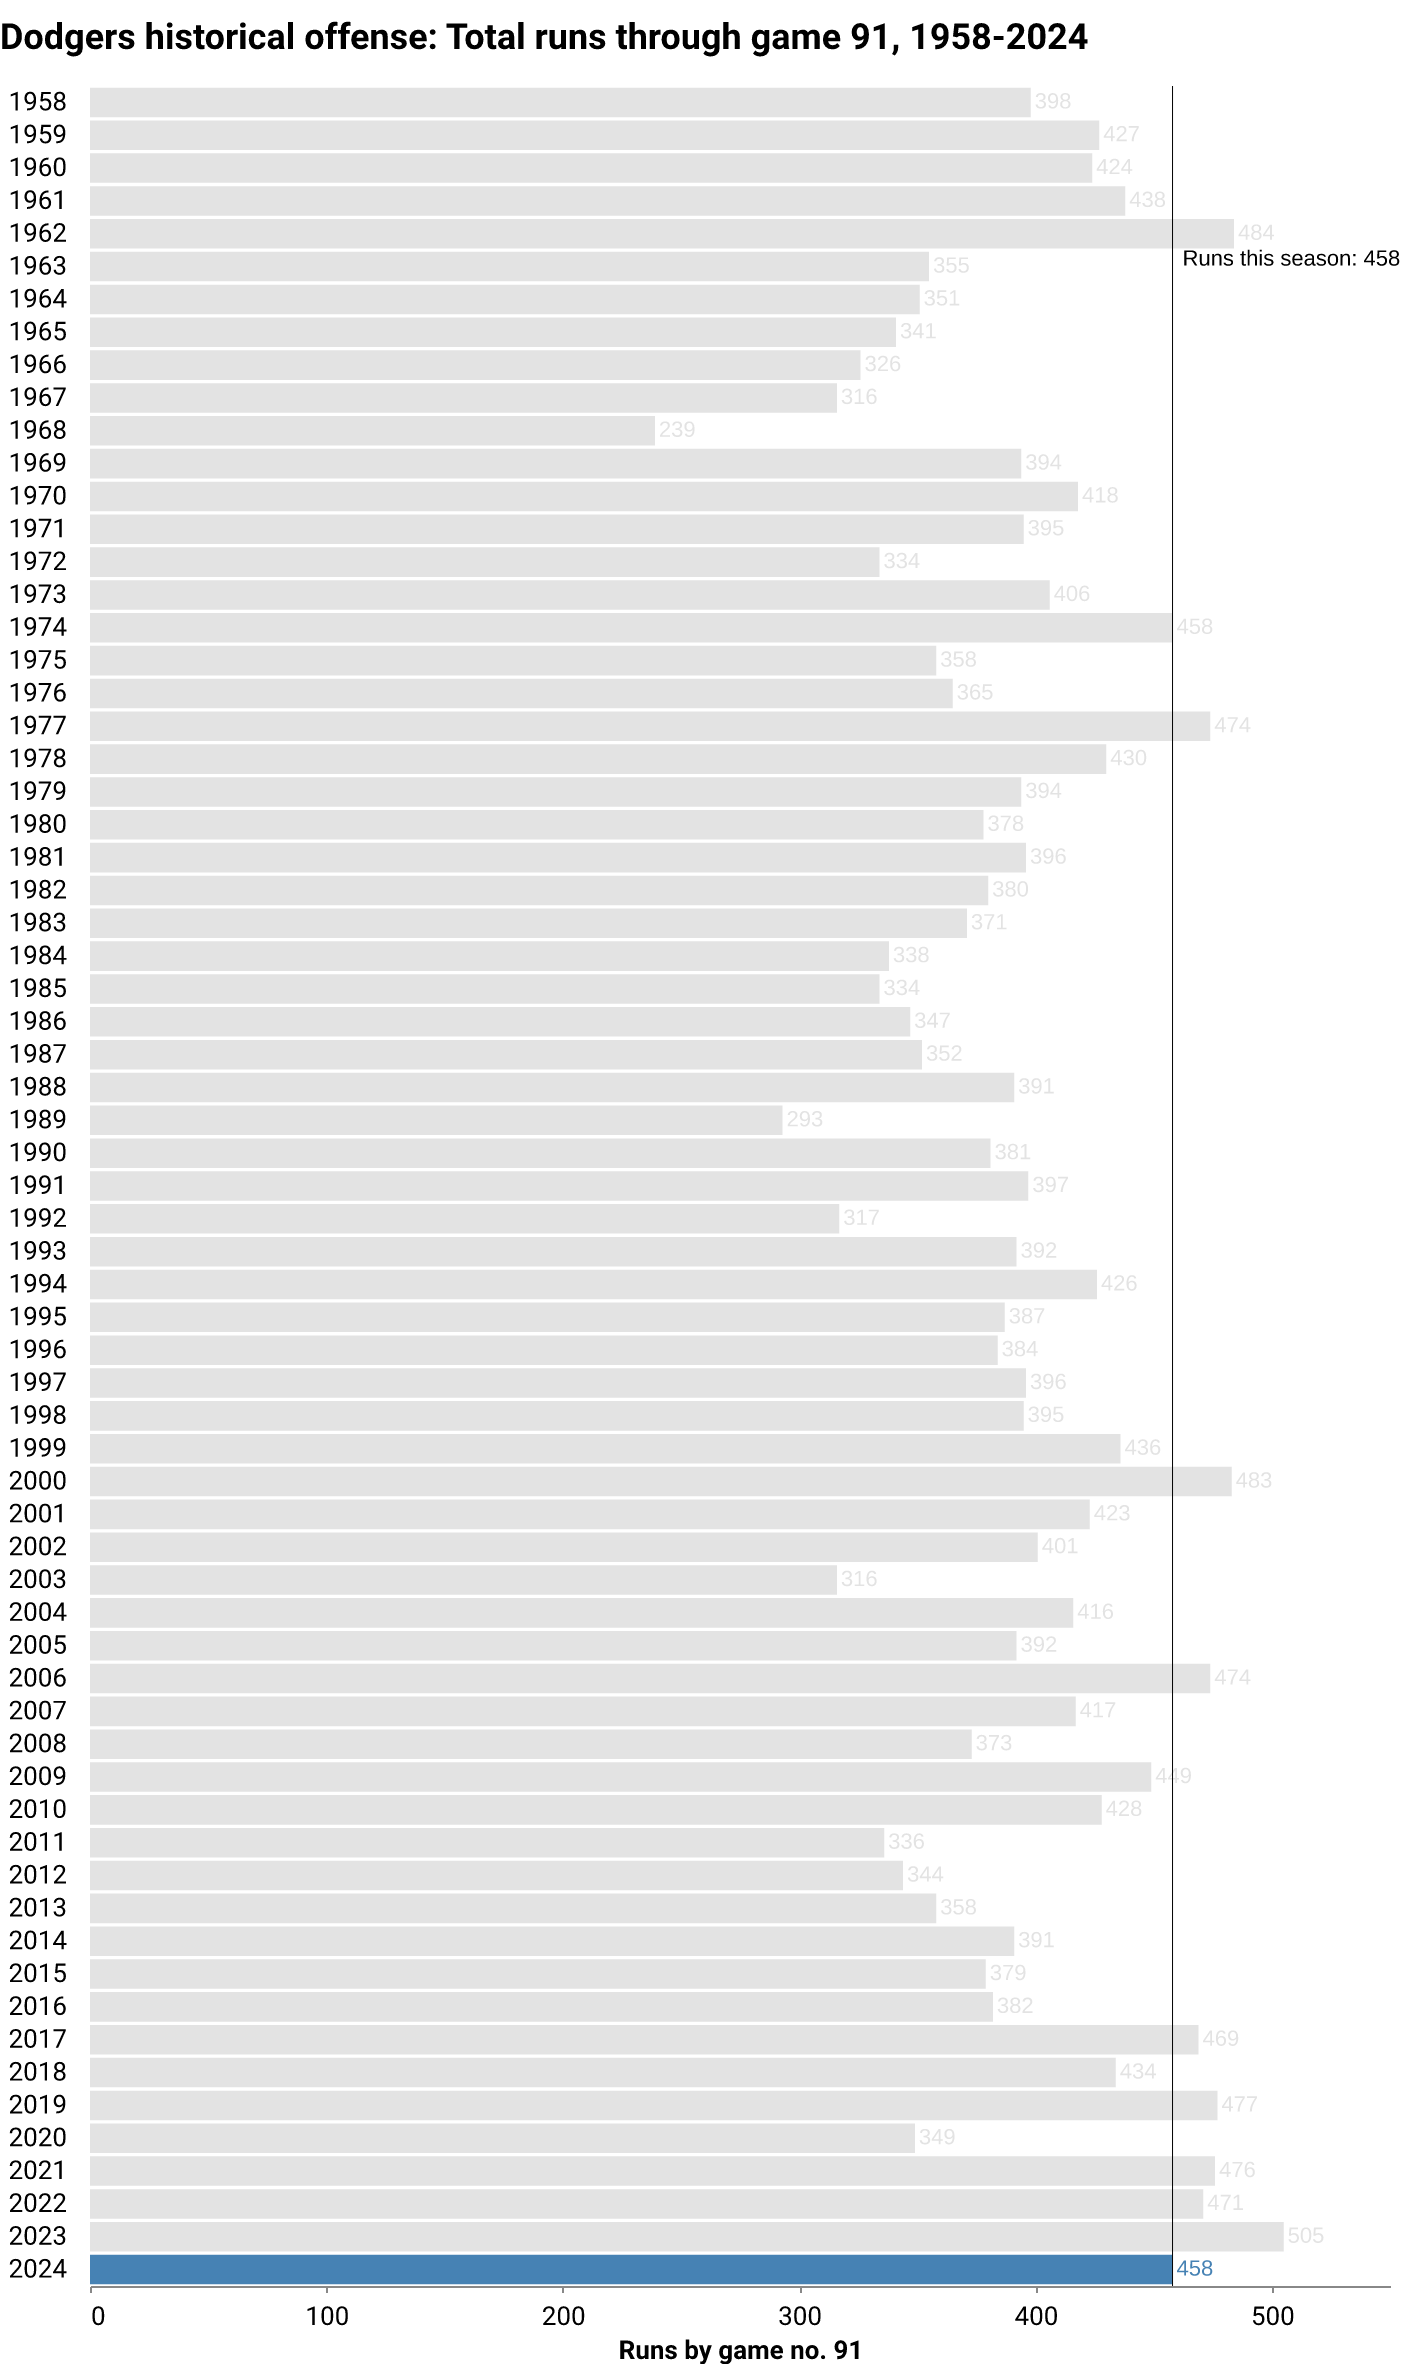
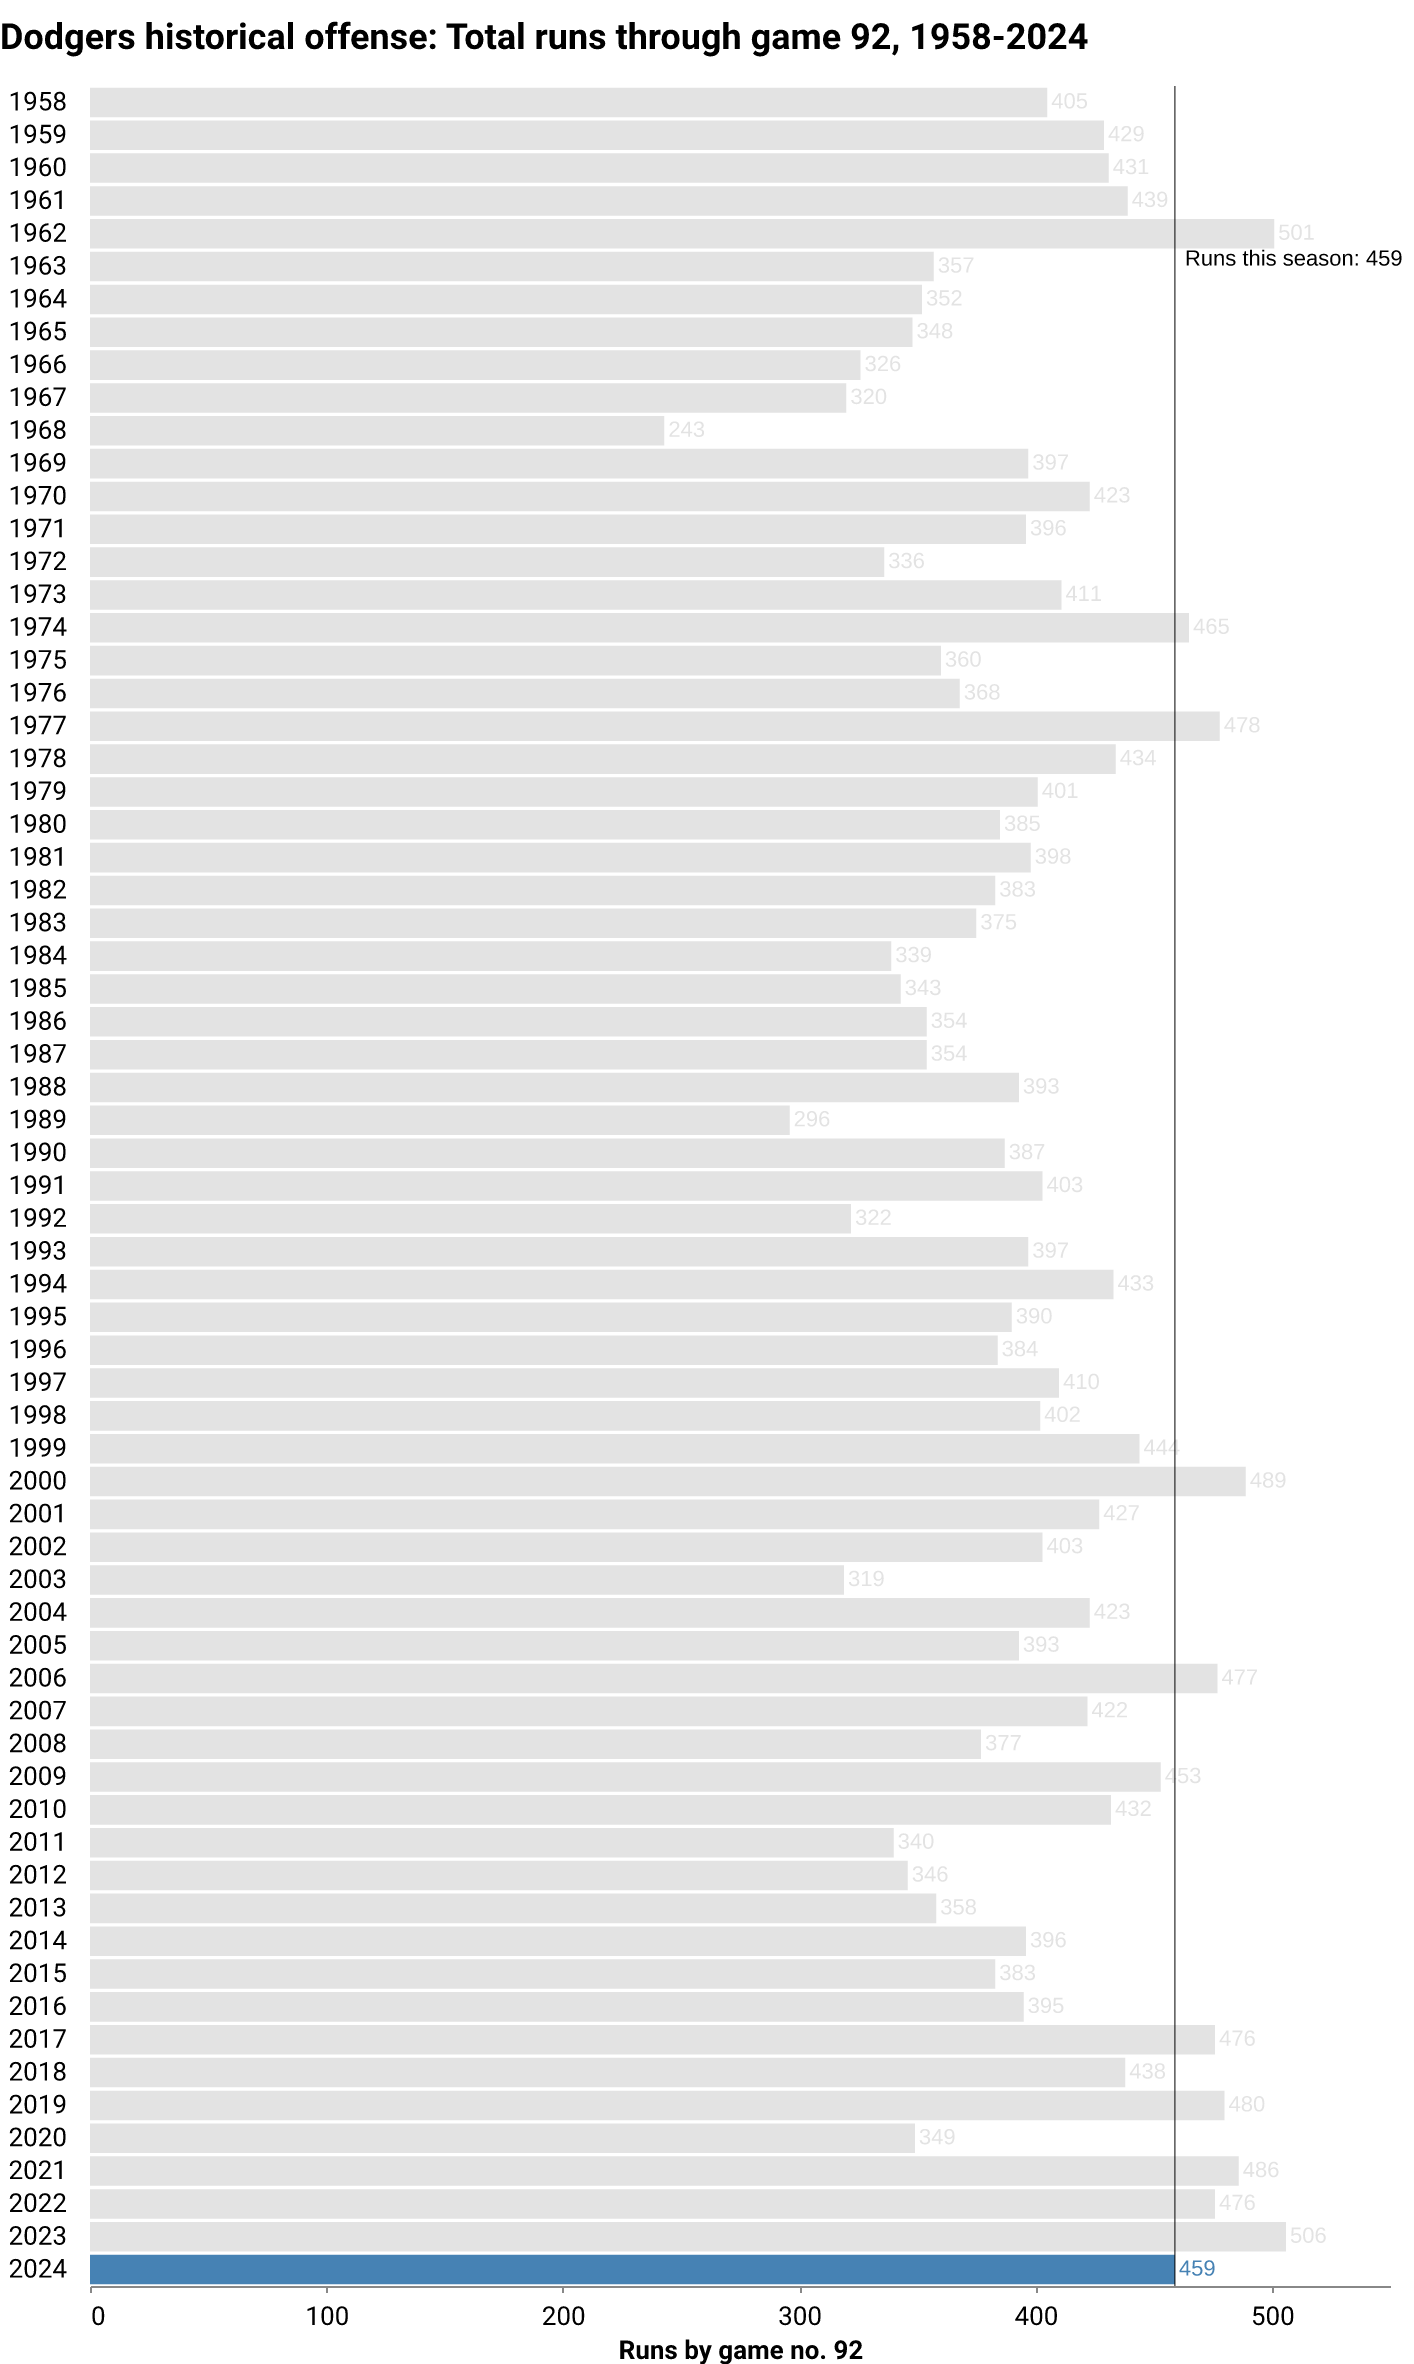
deploy: ae6a7f44a041cf48cf5176828de3e36e35aa7c0d

diff --git a/index.html b/index.html
@@ -184,7 +184,7 @@
 <p class="subhead">
     
     
-    <span class="highlight">LOS ANGELES</span> <span class="updated">(July 10)</span> — After <span class="highlight">91</span> games this season, the Dodgers are in <span class="highlight">1st</span> place in the National League West division. The team has compiled a <span class="highlight">55-36</span> record, winning <span class="highlight">60%</span> of its games so far. The last game was a <span class="highlight">2-9</span> home <span class="highlight">loss</span> against the Milwaukee Brewers in front of <span class="highlight">43,528</span> fans. They've won <span class="highlight">5 of the last 10</span>.
+    <span class="highlight">LOS ANGELES</span> <span class="updated">(July 10)</span> — After <span class="highlight">92</span> games this season, the Dodgers are in <span class="highlight">1st</span> place in the National League West division. The team has compiled a <span class="highlight">55-37</span> record, winning <span class="highlight">60%</span> of its games so far. The last game was a <span class="highlight">1-10</span> away <span class="highlight">loss</span> against the Philadelphia Phillies in front of <span class="highlight">43,065</span> fans. They've won <span class="highlight">4 of the last 10</span>.
 </p>
 </div>
 
@@ -222,10 +222,10 @@
             Losses
           </div>
           <div class="card-body">
-            <p class="card-text">36</p>
+            <p class="card-text">37</p>
           </div>
           <div class="card-footer text-muted">
-        This point last season: 38
+        This point last season: 39
           </div>
         </div>
       </div>
@@ -238,10 +238,10 @@
             Record
           </div>
           <div class="card-body">
-            <p class="card-text">55-36</p>
+            <p class="card-text">55-37</p>
           </div>
           <div class="card-footer text-muted">
-        This point last season: 53-38
+        This point last season: 53-39
           </div>
         </div>
       </div>
@@ -302,7 +302,7 @@
             Runs
           </div>
           <div class="card-body">
-            <p class="card-text">458</p>
+            <p class="card-text">459</p>
           </div>
           <div class="card-footer text-muted">
         League rank: 1
@@ -318,10 +318,10 @@
             Runs against
           </div>
           <div class="card-body">
-            <p class="card-text">354</p>
+            <p class="card-text">364</p>
           </div>
           <div class="card-footer text-muted">
-        This point last season: 419
+        This point last season: 421
           </div>
         </div>
       </div>
@@ -334,10 +334,10 @@
             Run differential
           </div>
           <div class="card-body">
-            <p class="card-text">104</p>
+            <p class="card-text">95</p>
           </div>
           <div class="card-footer text-muted">
-        This point last season: 86
+        This point last season: 85
           </div>
         </div>
       </div>
@@ -424,7 +424,7 @@
             Home runs
           </div>
           <div class="card-body">
-            <p class="card-text">124</p>
+            <p class="card-text">125</p>
           </div>
           <div class="card-footer text-muted">
         League rank: 1
@@ -472,7 +472,7 @@
             Stolen bases
           </div>
           <div class="card-body">
-            <p class="card-text">55</p>
+            <p class="card-text">56</p>
           </div>
           <div class="card-footer text-muted">
         League rank: 8
@@ -488,7 +488,7 @@
             Stolen bases/game
           </div>
           <div class="card-body">
-            <p class="card-text">0.6</p>
+            <p class="card-text">0.61</p>
           </div>
           <div class="card-footer text-muted">
         Rate all last season: 0.65
@@ -598,7 +598,7 @@
             Strikeouts
           </div>
           <div class="card-body">
-            <p class="card-text">777</p>
+            <p class="card-text">782</p>
           </div>
           <div class="card-footer text-muted">
         League rank: 5
@@ -614,7 +614,7 @@
             Walks
           </div>
           <div class="card-body">
-            <p class="card-text">276</p>
+            <p class="card-text">279</p>
           </div>
           <div class="card-footer text-muted">
         League rank: 8
@@ -630,7 +630,7 @@
             ERA
           </div>
           <div class="card-body">
-            <p class="card-text">3.61</p>
+            <p class="card-text">3.69</p>
           </div>
           <div class="card-footer text-muted">
         League rank: 3
@@ -708,7 +708,7 @@
     </div>
 </div>
 
-  <p class="dated">Notes: Last updated July 10, 2024, 4:03 AM PT. More <a href="https://github.com/stiles/dodgers/blob/main/README.md">about the data</a>.</p>
+  <p class="dated">Notes: Last updated July 10, 2024, 9:03 AM PT. More <a href="https://github.com/stiles/dodgers/blob/main/README.md">about the data</a>.</p>
   
 </div>
 
